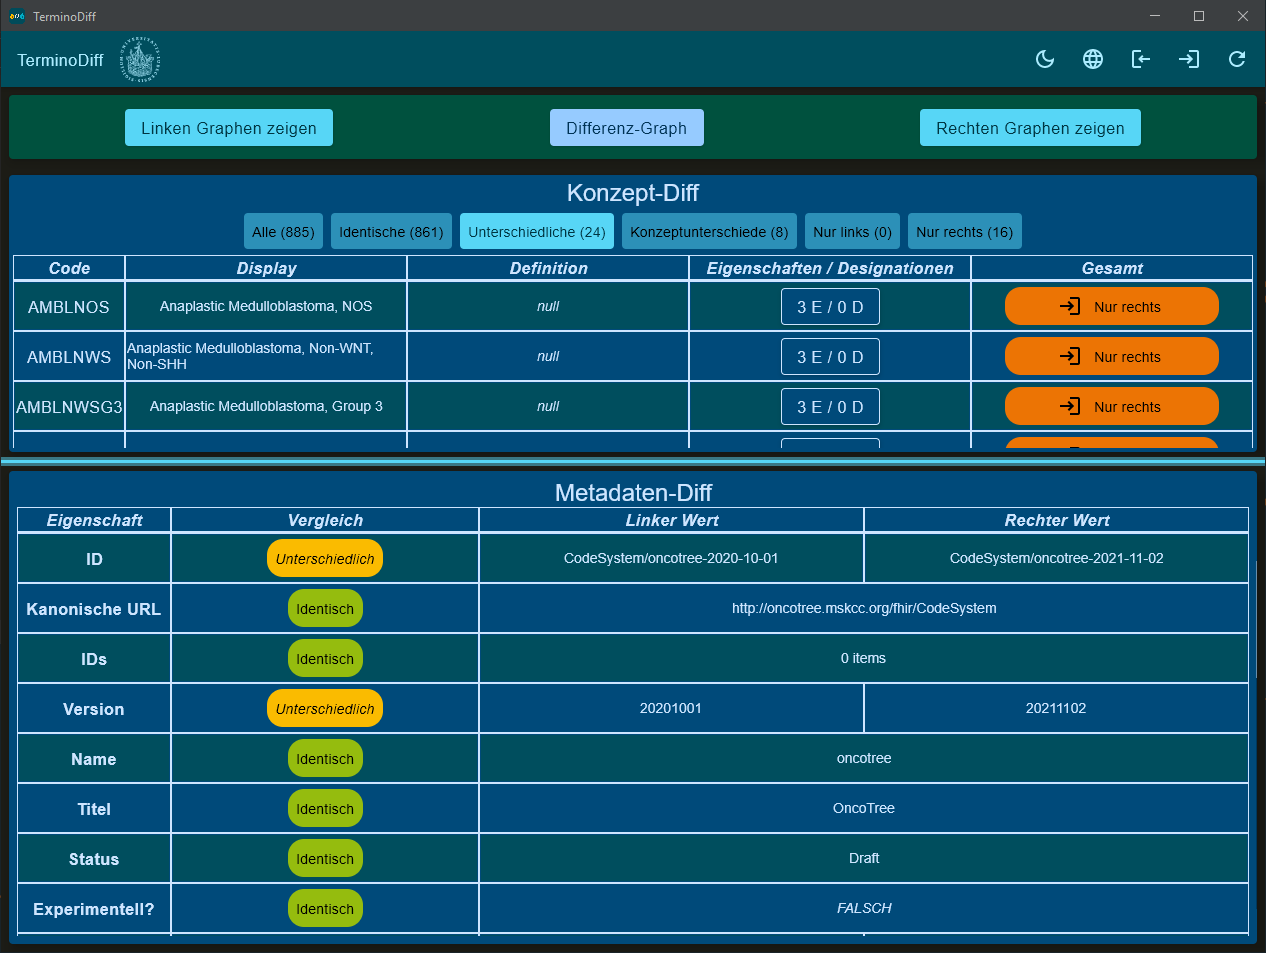
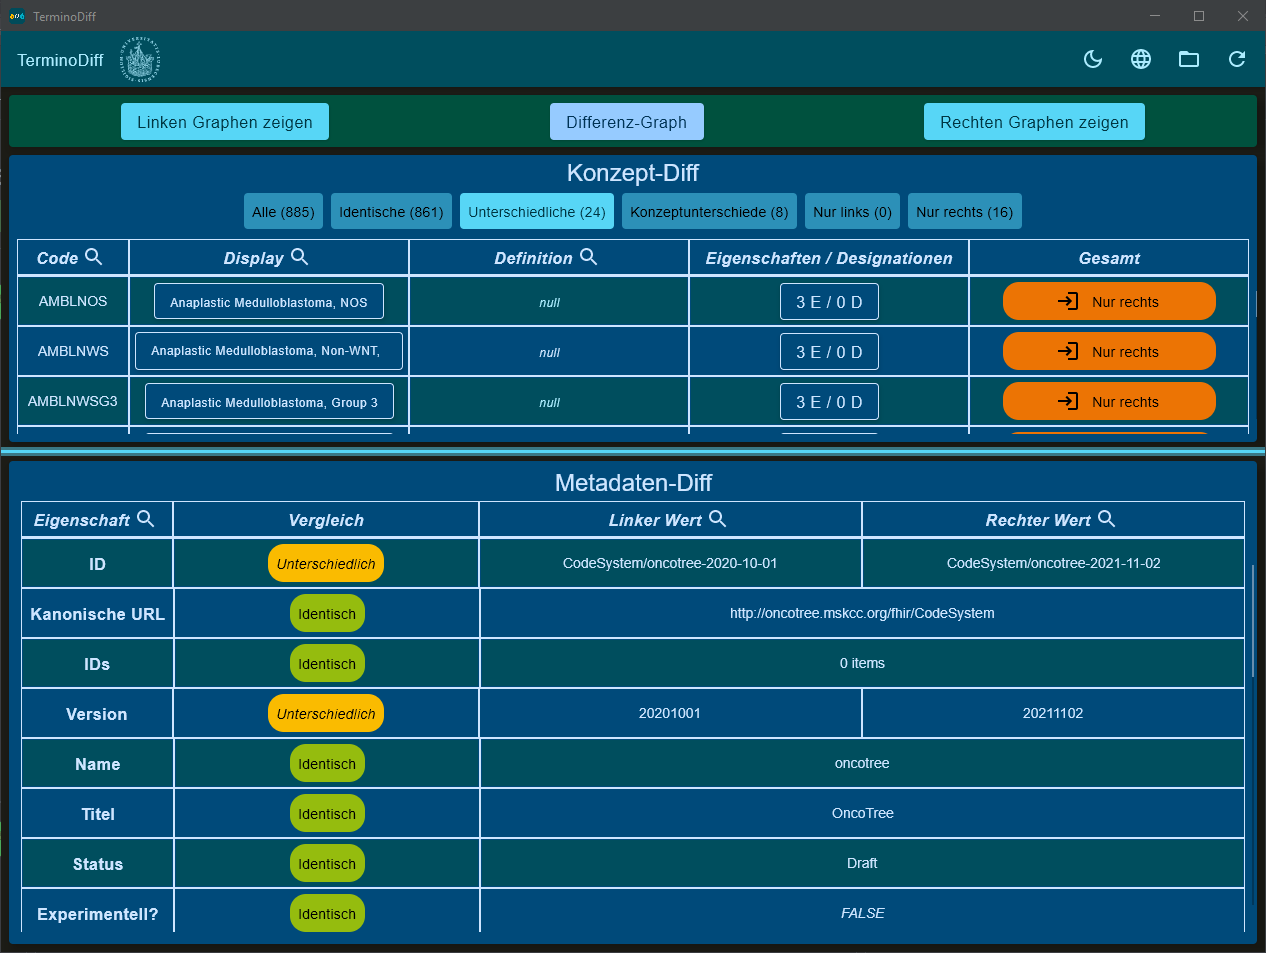
README

Changed region(s): [[0.0, 0.0304, 1.0, 1.0], [0.0308, 0.0, 0.0616, 0.0304]]

diff --git a/README.md b/README.md
@@ -1,28 +1,43 @@
 # TerminoDiff - Diff for 🔥 Terminology
 
-[![DOI](https://zenodo.org/badge/DOI/10.5281/zenodo.5898497.svg)](https://doi.org/10.5281/zenodo.5898497)
+[![DOI](https://zenodo.org/badge/DOI/10.5281/zenodo.5898497.svg)](https://doi.org/10.5281/zenodo.5898497) [![Native Distributions](https://github.com/itcr-uni-luebeck/TerminoDiff/actions/workflows/gradle.yml/badge.svg?branch=develop)](https://github.com/itcr-uni-luebeck/TerminoDiff/actions/workflows/gradle.yml)
 
-TerminoDiff is a graphical application to quickly compare [HL7 FHIR CodeSystem resources](https://www.hl7.org/fhir/codesystem.html).
+TerminoDiff is a graphical application to quickly
+compare [HL7 FHIR CodeSystem resources](https://www.hl7.org/fhir/codesystem.html).
 
 ## Why this app?
 
-Determining how HL7 FHIR CodeSystem resources differ proves to be a very difficult task without specialized tooling, since there are many aspects to consider in these resources. This makes maintenance of well-formed FHIR CodeSystem resources much more difficult than it should be.
+Determining how HL7 FHIR CodeSystem resources differ proves to be a very difficult task without specialized tooling,
+since there are many aspects to consider in these resources. This makes maintenance of well-formed FHIR CodeSystem
+resources much more difficult than it should be.
 
-| Level | Aspect | Example(-s) | TerminoDiff's Approach |
-|---:|---|---|---|
-| 0 | Serialization format | JSON vs. XML | Reading using HAPI FHIR allows ignoring wire format,<br>since the formats are semantically identical |
-| 1 | Metadata level |  | Presentation as a table (lower half) in the GUI |
-| 1.1 | Simple differences | `title`, `name`, `version` | String comparisons |
-| 1.2 | Differences within lists | `language`, `version` | (keyed) difference lists, e.g. by using `language.code`<br>as the key |
-| 2 | Concept level |  | Presentation as a table (upper half) in the GUI |
-| 2.1 | Simple differences | `display`, `designation` | String comparisons |
-| 2.2 | Differences within lists | `property`, `designation` | (keyed) difference lists, e.g. by using `property.code`<br>as the key |
-| 2.3 | Unilaterality of concepts | Deletions and additions of codes /<br>concepts across versions | Surfacing within the table with dedicated filter and highlight |
-| 3 | Edge differences | Deletions and additions of <br>`parent`/`child` properties;<br>other properties linking concepts<br>also considered | Creation and display of a difference graph with multiple<br>color-coded types of edges. |
+| Level | Aspect                    | Example(-s)                                                                                                         | TerminoDiff's Approach                                                                               |
+|------:|---------------------------|---------------------------------------------------------------------------------------------------------------------|------------------------------------------------------------------------------------------------------|
+|     0 | Serialization format      | JSON vs. XML                                                                                                        | Reading using HAPI FHIR allows ignoring wire format,<br>since the formats are semantically identical |
+|     1 | Metadata level            |                                                                                                                     | Presentation as a table (lower half) in the GUI                                                      |
+|   1.1 | Simple differences        | `title`, `name`, `version`                                                                                          | String comparisons                                                                                   |
+|   1.2 | Differences within lists  | `language`, `version`                                                                                               | (keyed) difference lists, e.g. by using `language.code`<br>as the key                                |
+|     2 | Concept level             |                                                                                                                     | Presentation as a table (upper half) in the GUI                                                      |
+|   2.1 | Simple differences        | `display`, `designation`                                                                                            | String comparisons                                                                                   |
+|   2.2 | Differences within lists  | `property`, `designation`                                                                                           | (keyed) difference lists, e.g. by using `property.code`<br>as the key                                |
+|   2.3 | Unilaterality of concepts | Deletions and additions of codes /<br>concepts across versions                                                      | Surfacing within the table with dedicated filter and highlight                                       |
+|     3 | Edge differences          | Deletions and additions of <br>`parent`/`child` properties;<br>other properties linking concepts<br>also considered | Creation and display of a difference graph with multiple<br>color-coded types of edges.              |
 
 ## What do I see?
 
-When you start the application, you will have to load two HL7 FHIR CodeSystem resources. It does not matter whether the resources are stored as JSON or XML files, the HAPI FHIR library will take care of this.
+When you start the application, you will have to load two HL7 FHIR CodeSystem resources. It does not matter whether the
+resources are stored as JSON or XML files, the HAPI FHIR library will take care of this.
+
+You will be able to load data from the file system, but also from a FHIR Terminology Server:
+
+![Loading screen for files](images/load-file.png)
+
+![Loading screen for FHIR Servers](images/load-ts.png)
+
+If you do not have a FHIR server on your own, you can use the following URLs:
+
+- https://r4.ontoserver.csiro.au/fhir (a public test instance for Ontoserver, a commercial FHIR Terminology server)
+- http://hapi.fhir.org/baseR4 (a public instance of HAPI FHIR JPA Server)
 
 Once loaded, you will be presented with the view of differences over the two loaded CodeSystems:
 
@@ -30,42 +45,62 @@ Once loaded, you will be presented with the view of differences over the two loa
 
 The app is also translated into German; and a dark theme is implemented as well:
 
-![TerminoDiff Main Screen for Oncotree, dark theme, German localization](images/main-oncotree-dark-de.png)
+![TerminoDiff Main Screen for OncoTree, dark theme, German localization](images/main-oncotree-dark-de.png)
+
+Many columns are searchable (using a fuzzy search function, so that near matches can be found as well). This is
+indicated by looking glass icons. Searches can be combined as well, by specifying multiple filters.
+
+The fuzzy search requires a partial match of at least 75 % similarity.
 
 ### Top section
 
-In the top half of the app, you can inspect the concept differences in more detail. The filters at the top allow you to select different subsets of the concepts - you can view all concepts; those that are identical; those that are different (this is the default view); those where the concept is in both sides of the comparison, but different; and those that are only in one of the two CodeSystems. Differences are highlighted using colors. 
+In the top half of the app, you can inspect the concept differences in more detail. The filters at the top allow you to
+select different subsets of the concepts - you can view all concepts; those that are identical; those that are
+different (this is the default view); those where the concept is in both sides of the comparison, but different; and
+those that are only in one of the two CodeSystems. Differences are highlighted using colors.
 
 The *Properties / Designations* buttons are clickable to reveal a more detailed comparison:
 
 ![Properties and designations for a concept in OncoTree](images/properties-oncotree.png)
 
-If the concept is unilateral (only in left/only in right), the dialog is accessible regardless.
+If the concept is unilateral (only in left / only in right), the dialog is accessible regardless.
 
 ### Bottom section
 
-This section represents differences in the CodeSystem metadata. Attributes are represented as rows in the table, and the respective value is shown in the right-hand part. Every metadata comparison item is compared and represented using colored chips.
+This section represents differences in the CodeSystem metadata. Attributes are represented as rows in the table, and the
+respective value is shown in the right-hand part. Every metadata comparison item is compared and represented using
+colored chips.
 
-If the value is identical, the columns are merged, otherwise there will be a left and a right value. For properties that are lists of values in FHIR, such as `Identifier`, the colored chip will be a clickable button (as long as there is data in that property):
+If the value is identical, the columns are merged, otherwise there will be a left and a right value. For properties that
+are lists of values in FHIR, such as `Identifier`, the colored chip will be a clickable button (as long as there is data
+in that property):
 
 ![Identifiers for a fictitious test CodeSystem](images/identifiers-testcs.png)
 
 ### Difference Graph
 
-At the very top of the app, there are three buttons to view a graphical representation of the two CodeSystems, as well as the computed difference graph. To illustrate, consider these two CodeSystems:
+At the very top of the app, there are three buttons to view a graphical representation of the two CodeSystems, as well
+as the computed difference graph. To illustrate, consider these two CodeSystems:
 
-|Left CS|Right CS|
-|--|--|
-|![Left CS for diff graph](images/left-cs.png)|![Right CS for diff graph](images/right-cs.png)|
+| Left CS                                       | Right CS                                        |
+|-----------------------------------------------|-------------------------------------------------|
+| ![Left CS for diff graph](images/left-cs.png) | ![Right CS for diff graph](images/right-cs.png) |
 
-Going from "left" to "right", the concept `C` was removed, leading to changes in the edge going from `D` to `A`. Also, a new type of edge, `related-to` was introduced.
 
-The dashed edges `child` are special, since these are handled internally as `parent` edges. This is since FHIR specifies three ways of handling `parent-child` relationships:
- 1. the `concept` property within `concept`, allowing arbitrarily deep nesting,
- 2. the implicit `parent` property,
- 3. and/or the implicit `child` property.
+Going from "left" to "right", the concept `C` was removed, leading to changes in the edge going from `D` to `A`. Also, a
+new type of edge, `related-to` was introduced.
 
-Since these properties are to be [handled in the same fashion by implementing applications](https://www.hl7.org/fhir/codesystem.html#hierarchy), we reduce all of these three options to the "canonical" `parent` property (which allows a polyhierarchy, which `concept` does not).
+The dashed edges `child` are special, since these are handled internally as `parent` edges. This is since FHIR specifies
+three ways of handling `parent-child` relationships:
+
+1. the `concept` property within `concept`, allowing arbitrarily deep nesting,
+2. the implicit `parent` property,
+3. and/or the implicit `child` property.
+
+Since these properties are to
+be [handled in the same fashion by implementing applications](https://www.hl7.org/fhir/codesystem.html#hierarchy), we
+reduce all of these three options to the "canonical" `parent` property (which allows a poly-hierarchy, which `concept`
+does not).
 
 The difference graph for these two fictitious CodeSystem resources could look like this:
 
@@ -77,31 +112,41 @@ The difference graph implemented in the application looks very similar:
 
 ![Difference graph for example CodeSystems in the app](images/diff-app.png)
 
-At the top of the dialog, you can choose from any of the available layout algorithms. Since CodeSystems generally have directed edges, and are often hierarchical, we find that the *Sugiyama* and *Eiglsperger* algorithms do a fine job at visualizing these graphs.
+At the top of the dialog, you can choose from any of the available layout algorithms. Since CodeSystems generally have
+directed edges, and are often hierarchical, we find that the *Sugiyama* and *Eiglsperger* algorithms do a fine job at
+visualizing these graphs.
 
 ## How do I run this?
 
-There are executable distributions [available under the Releases section](https://github.com/itcr-uni-luebeck/TerminoDiff/releases/latest).
+There are executable
+distributions [available under the Releases section](https://github.com/itcr-uni-luebeck/TerminoDiff/releases/latest).
 
 Executables are available for:
+
 * Windows 64-bit
 * macOS Intel x64 (built on Monterey)
 * macOS aarch64 (built on Monterey)
 * Debian and derivatives, 64-bit (built on Ubuntu)
 * RPM-based distributions, 64-bit (built on Fedora)
 
-These releases include a Java VM and the needed run-time components, and can be run as-is. The macOS binaries are code-signed, but not notarized by Apple, and may ask for permission to run.
+These releases include a Java VM and the needed run-time components, and can be run as-is. The macOS binaries are
+code-signed, but not notarized by Apple, and may ask for permission to run.
 
-You can build the project yourself using Gradle, either from the console or via an IDE such as IntelliJ. If you want to build a native distribution yourself, you might need to edit the `build.gradle.kts` to only include the operating system and target format you require - cross-building is not yet supported by the Compose Desktop framework.
+You can build the project yourself using Gradle, either from the console or via an IDE such as IntelliJ. If you want to
+build a native distribution yourself, you might need to edit the `build.gradle.kts` to only include the operating system
+and target format you require - cross-building is not yet supported by the Compose Desktop framework.
 
-If you want to run from code, use at least JDK 11. If you want to build a native distribution, you need JDK 15 or later (17 recommended), since `jpackage` is not available in prior versions.
+If you want to run from code, use at least JDK 11. If you want to build a native distribution, you need JDK 15 or
+later (17 recommended), since `jpackage` is not available in prior versions.
 
 ## How is this built?
 
-The application is written in Kotlin and utilizes [JetBrains' *Compose Multiplatform*](https://github.com/JetBrains/compose-jb) toolkit. This toolkit brings the declarative *Jetpack Compose* library from Android
-over to the desktop, allowing a Kotlin-first approach to GUI development.
+The application is written in Kotlin and utilizes [JetBrains' *Compose
+Multiplatform*](https://github.com/JetBrains/compose-jb) toolkit. This toolkit brings the declarative *Jetpack Compose*
+library from Android over to the desktop, allowing a Kotlin-first approach to GUI development.
 
 We utilize the following libraries alongside *Compose*:
+
 - [HAPI FHIR](https://hapifhir.io) for processing FHIR resources
 - [slf4j](https://www.slf4j.org) for logging
 - [JGraphT](https://jgrapht.org) for representation of CodeSystem and diff graphs
@@ -110,37 +155,63 @@ We utilize the following libraries alongside *Compose*:
 - [NativeJFileChooser](https://github.com/veluria/NativeJFileChooser) for the file selection dialog on Windows and Linux
 - [Apache Commons Lang](https://commons.apache.org/proper/commons-lang/)
 - [FlatLaf](https://www.formdev.com/flatlaf/) for dark window chrome on Windows
+- [ktor](https://ktor.io) for coroutine-based HTTP
+- [JavaWuzzy](https://github.com/xdrop/fuzzywuzzy) for fuzzy string matching, a port of [FuzzyWuzzy](https://pypi.org/project/fuzzywuzzy/) in Python
 
 ### Localization
 
-The localization framework was built from scratch in the file [LocalizedStrings.kt](src\main\kotlin\terminodiff\i18n\LocalizedStrings.kt), since no suitable alternative for localization in Kotlin could be found. Currently, we support English (default) and German strings. Every component that displays strings receives an instance of `LocalizedStrings`, which declares a number of properties that are implemented in `EnglishStrings` and `GermanStrings`. Default arguments in `LocalizesStrings` represent strings that are identical in English and German - if you implement another language, you may need to make some default propertis explicit in the derived classes.
+The localization framework was built from scratch in the
+file [LocalizedStrings.kt](src/main/kotlin/terminodiff/i18n/LocalizedStrings.kt), since no suitable alternative for
+localization in Kotlin could be found. Currently, we support English (default) and German strings. Every component that
+displays strings receives an instance of `LocalizedStrings`, which declares a number of properties that are implemented
+in `EnglishStrings` and `GermanStrings`. Default arguments in `LocalizesStrings` represent strings that are identical in
+English and German - if you implement another language, you may need to make some default properties explicit in the
+derived classes.
 
-Members with a trailing underscore represent formatting functions that are implemented as Lambda expressions. These are referenced from the GUI using `localizesStrings.member_.invoke(param1, param2)`.
+Members with a trailing underscore represent formatting functions that are implemented as Lambda expressions. These are
+referenced from the GUI using `localizesStrings.member_.invoke(param1, param2)`.
 
 ### Tables
 
-Since `DataTables` are not (anymore) part of the Compose toolkit, we implemented our own table component. The generic implementation takes in a list of column specifications that render the provided type paramater using a composable body. The table supports merging adjacent columns (if a predicate returns `true`), tooltips (e.g. on the lower table, when English is not selected as the language, the default name of the FHIR attribute is shown in the tooltip of the left-hand column), and zebra striping. In the top table, the table data is also pre-filtered using a generic set of filter buttons.
+Since `DataTables` are not (anymore) part of the Compose toolkit, we implemented our own table component. The generic
+implementation takes in a list of column specifications that render the provided type parameter using a composable body.
+The table supports merging adjacent columns (if a predicate returns `true`), tooltips (e.g. on the lower table, when
+English is not selected as the language, the default name of the FHIR attribute is shown in the tooltip of the left-hand
+column), and zebra striping. In the top table, the table data is also pre-filtered using a generic set of filter
+buttons.
 
 ### Graph window
 
-While interoperability between Kotlin and Java is generally very good, the `jungrapht-visualization` library is better called from Java than from Kotlin. Also, the performance of integrating these heavy components into the composable framemwork is not sufficient, so that these windows are implemented using Swing instead of Compose.
+While interoperability between Kotlin and Java is generally very good, the `jungrapht-visualization` library is better
+called from Java than from Kotlin. Also, the performance of integrating these heavy components into the composable
+framework is not sufficient, so that these windows are implemented using Swing instead of Compose.
 
-The Swing code makes liberal use of the sample implementations in the [jungrapht-visualization](https://github.com/tomnelson/jungrapht-visualization) libraries, e.g. for the rubber-banding satellite viewer. The graph viewer supports a range of mouse operations, [explained in more detail in the documentation](https://github.com/tomnelson/jungrapht-visualization/blob/master/MouseGestures.md).
+The Swing code makes liberal use of the sample implementations in
+the [jungrapht-visualization](https://github.com/tomnelson/jungrapht-visualization) libraries, e.g. for the
+rubber-banding satellite viewer. The graph viewer supports a range of mouse
+operations, [explained in more detail in the documentation](https://github.com/tomnelson/jungrapht-visualization/blob/master/MouseGestures.md)
+.
 
 ## Metadata differences
 
-We have implemented a very generic difference engine for the metadata table, so that new diff items can be added very easily. Most elements are basically string comparisons, which can be added using a single line of code in [MetadataDiffItems.kt](src\main\kotlin\terminodiff\engine\metadata\MetadataDiff.kt) (function `generateComparisonDefinitions`). Stuff like `identifiers` are a bit more involved, since these require the definition of a key and a string representation of the value, as well as column definitions for the key columns (to render the details dialog shown above), but are also not very challenging to implement.
+We have implemented a very generic difference engine for the metadata table, so that new diff items can be added very
+easily. Most elements are basically string comparisons, which can be added using a single line of code
+in [MetadataDiffItems.kt](src/main/kotlin/terminodiff/engine/metadata/MetadataDiff.kt) (
+function `generateComparisonDefinitions`). Stuff like `identifiers` are a bit more involved, since these require the
+definition of a key and a string representation of the value, as well as column definitions for the key columns (to
+render the details dialog shown above), but are also not very challenging to implement.
 
 ## What's planned?
 
 We are looking at implementing the following features:
 
-- a search for concepts in the CodeSystems by `code` and other characteristics
-- filters for the metadata table, similar to those in the concept table
-- a visualization of the neighborhood of any concept in the graph, to view the connections a concept has across the network of concepts
-  - integrating this feature into the difference graph, so that layers of context can be added iteratively
-- query of resources from FHIR Terminology servers (by physical URL and canonical URL plus version)
-- support for the `vread` mechanism to compare across instance versions on FHIR Terminology servers
+- [x] a search for concepts in the CodeSystems by `code` and other characteristics
+- [x] filters for the metadata table, similar to those in the concept table
+- [x] query of resources from FHIR Terminology servers (by physical URL and canonical URL plus version)
+- [x] support for the `vread` mechanism to compare across instance versions on FHIR Terminology servers
+- [ ] a visualization of the neighborhood of any concept in the graph, to view the connections a concept has across the
+  network of concepts
+    - integrating this feature into the difference graph, so that layers of context can be added iteratively 
 - support for other types of resources in FHIR, especially `ValueSet` and `ConceptMap`, likely with TS support.
 
 ## How do I cite this?
@@ -155,6 +226,8 @@ Wiedekopf, Joshua, et al. (2022). TerminoDiff. Zenodo. https://doi.org/10.5281/z
 
 ## Can I help?
 
-Absolutely 🔥! Please feel free to open an issue if you would like another feature added to the app. We are committed to improving on this app to provide a better experience for terminologists around the globe.
+Absolutely 🔥! Please feel free to open an issue if you would like another feature added to the app. We are committed to
+improving on this app to provide a better experience for terminologists around the globe.
 
-If you improve on this app, we only ask that your changes remain freely accessible, and that you create a pull request on GitHub. Thanks!
+If you improve on this app, we only ask that your changes remain freely accessible, and that you create a pull request
+on GitHub. Thanks!
